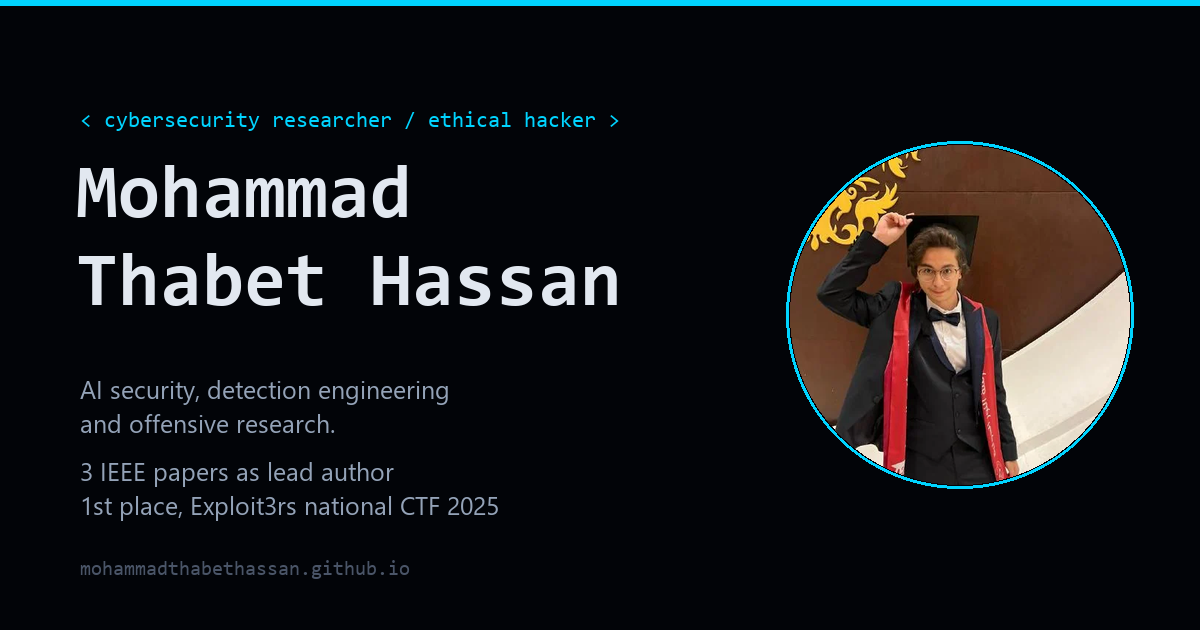
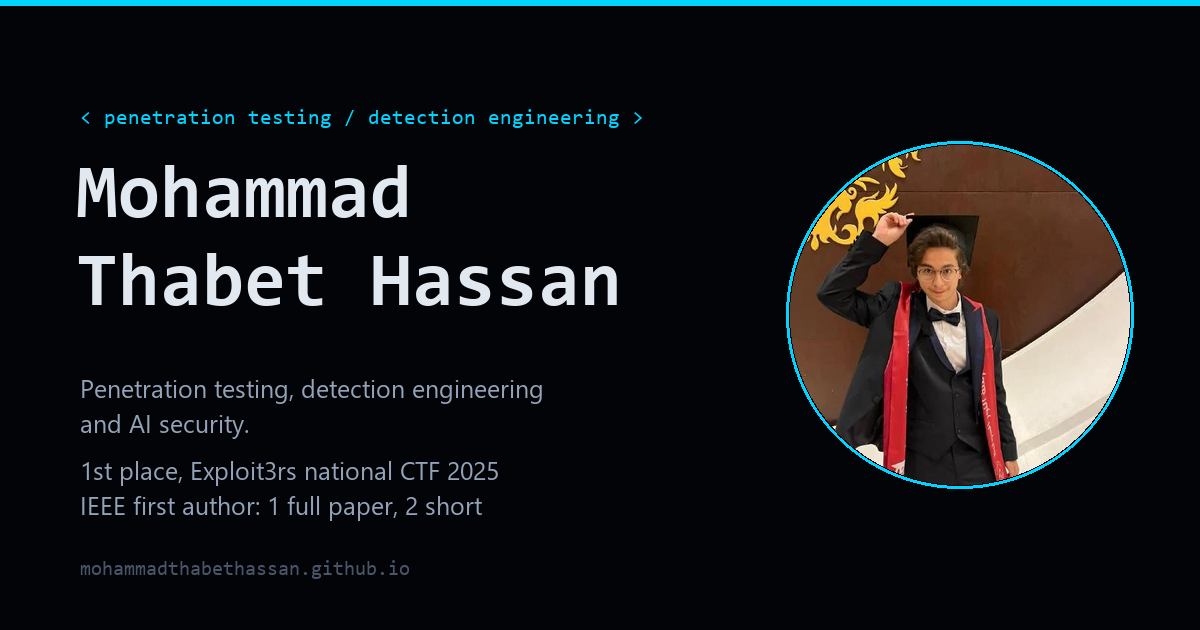
Bring the site in line with current work and correct stale claims
- Hero, About and contact now state the current focus: penetration
  testing and detection engineering.
- Projects: TokenAbuse-Azure and MIRAGE lead; adds web-posture-check and
  the HackerVerse DFIR write-up.
- Achievements: adds the SEC504 class CTF and HackerVerse results;
  Demo Day entry corrected to 2025.
- Experience entry matches the role as held (title, dates, scope).
- XAI-IDS: per-dataset F1, no venue, and no confidence-score separation
  claim until the work is validated.
- CGPA, university name, link-preview image and manifest updated.

diff --git a/index.html b/index.html
@@ -3,7 +3,7 @@
 <head>
 <meta charset="UTF-8">
 <meta name="viewport" content="width=device-width, initial-scale=1.0">
-<meta name="description" content="Mohammad Thabet Hassan is a cybersecurity researcher and ethical hacker in Dubai: AI security, detection engineering and offensive research. Three IEEE papers as lead author, first place at the Exploit3rs national CTF, open-source security tools.">
+<meta name="description" content="Mohammad Thabet Hassan is a Cyber Security graduate in Dubai working on penetration testing and detection engineering. First place at the Exploit3rs national CTF, first-author IEEE papers, open-source security tools.">
 <meta name="author" content="Mohammad Thabet Hassan">
 <meta name="keywords" content="cybersecurity, ethical hacking, penetration testing, AI security, intrusion detection, deepfake detection, SOC, portfolio, Dubai, CTF">
 <link rel="canonical" href="https://mohammadthabethassan.github.io/">
@@ -11,10 +11,10 @@
 <meta name="color-scheme" content="dark">
 <meta name="twitter:card" content="summary_large_image">
 <meta name="twitter:title" content="Mohammad Thabet Hassan | Cybersecurity Portfolio">
-<meta name="twitter:description" content="Cybersecurity researcher and ethical hacker in Dubai. AI security, detection engineering and offensive research.">
+<meta name="twitter:description" content="Cyber Security graduate in Dubai. Penetration testing, detection engineering and AI security.">
 <meta name="twitter:image" content="https://mohammadthabethassan.github.io/img/og.png">
 <meta property="og:title" content="Mohammad Thabet Hassan | Cybersecurity Portfolio">
-<meta property="og:description" content="Cybersecurity researcher and ethical hacker in Dubai. AI security, detection engineering and offensive research. Three IEEE papers, first place at the Exploit3rs national CTF, open-source security tools.">
+<meta property="og:description" content="Cyber Security graduate in Dubai. Penetration testing, detection engineering and AI security. First place at the Exploit3rs national CTF, first-author IEEE papers, open-source security tools.">
 <meta property="og:image" content="https://mohammadthabethassan.github.io/img/og.png">
 <meta property="og:image:width" content="1200">
 <meta property="og:image:height" content="630">
@@ -29,10 +29,10 @@
   "name": "Mohammad Thabet Hassan",
   "url": "https://mohammadthabethassan.github.io/",
   "image": "https://mohammadthabethassan.github.io/img/portrait.webp",
-  "jobTitle": "Cybersecurity Researcher",
+  "jobTitle": "Cyber Security Graduate",
   "alumniOf": {
     "@type": "CollegeOrUniversity",
-    "name": "Canadian University of Dubai"
+    "name": "Canadian University Dubai"
   },
   "email": "mailto:Mohammad_Thabet@hotmail.com",
   "telephone": "+971585880343",
@@ -64,7 +64,7 @@
 <script defer src="https://cdnjs.cloudflare.com/ajax/libs/gsap/3.12.2/gsap.min.js"></script>
 <script defer src="https://cdnjs.cloudflare.com/ajax/libs/gsap/3.12.2/ScrollTrigger.min.js"></script>
 
-<link rel="stylesheet" href="css/style.css?v=6">
+<link rel="stylesheet" href="css/style.css?v=7">
 </head>
 <body>
 <!-- Progress -->
@@ -109,19 +109,19 @@
 <!-- ─── HERO ──────────────────────────── -->
 <section class="hero" id="hero">
   <div class="hero-content">
-    <div class="hero-label">&lt; security researcher / ethical hacker &gt;</div>
+    <div class="hero-label">&lt; pentest / detection engineering &gt;</div>
     <h1 class="hero-title">
       <span class="glitch" data-text="Mohammad">Mohammad</span>
       <span class="glitch" data-text="Thabet">Thabet</span>
     </h1>
     <div class="hero-typewriter" id="typewriter"><span id="tw-text"></span><span class="cursor-blink"></span></div>
-    <p class="hero-subtitle">B.Sc. Cyber Security, Canadian University of Dubai, Class of 2026</p>
+    <p class="hero-subtitle">B.Sc. Cyber Security, Canadian University Dubai, Class of 2026</p>
     <ul class="hero-proof">
-      <li>3 IEEE papers · lead author</li>
       <li>1st place · Exploit3rs national CTF 2025</li>
-      <li>TrustWeave · published on PyPI</li>
+      <li>IEEE first author</li>
+      <li>HackerVerse DFIR CTF · 2,000 of 2,000</li>
     </ul>
-    <div class="avail-badge"><span class="avail-dot"></span>Open to Work · SOC, Red Team, AI Security</div>
+    <div class="avail-badge"><span class="avail-dot"></span>Open to Work · Penetration Testing, Detection Engineering</div>
     <div class="hero-buttons">
       <a href="#projects" class="btn btn-primary">
         View Projects
@@ -152,7 +152,7 @@
     <div class="stat-label">IEEE Papers</div>
   </div>
   <div class="stat-item">
-    <div class="stat-number" data-target="10" data-suffix="">10</div>
+    <div class="stat-number" data-target="12" data-suffix="">12</div>
     <div class="stat-label">Projects Shipped</div>
   </div>
   <div class="stat-item">
@@ -160,7 +160,7 @@
     <div class="stat-label">Credentials</div>
   </div>
   <div class="stat-item">
-    <div class="stat-number" data-target="5" data-suffix="">5</div>
+    <div class="stat-number" data-target="7" data-suffix="">7</div>
     <div class="stat-label">Awards Won</div>
   </div>
 </div>
@@ -174,9 +174,9 @@
   </div>
   <div class="about-grid">
     <div class="about-text reveal">
-      <p>I graduated in May 2026 with a B.Sc. in Cyber Security from the <strong>Canadian University of Dubai</strong> (CGPA 3.46 / 4.0). Over the last two years I studied how machine-learning systems hold up against attackers and published what I found: <strong>three IEEE conference papers as lead author</strong>, with a journal manuscript in preparation.</p>
-      <p>Hands-on, I work across the full attack-and-defend loop. Offence: web, network and cloud-identity penetration testing with <strong>Kali Linux</strong>, <strong>Burp Suite</strong>, <strong>Metasploit</strong> and <strong>Wireshark</strong>, including OAuth device-code abuse in Entra ID. Defence: detection engineering, SIEM and log analysis, and digital forensics. In between sits the part I care most about: testing ML models the way an adversary would, and making their decisions explainable to the analyst who has to trust them.</p>
-      <p>The intrusion-detection and voice-deepfake studies ship as reproducible, CI-tested open-source software with model cards and citation metadata. I also compete: <strong>1st place at the Exploit3rs national CTF</strong> (2025) and 1st place at the Dubai AI System Competition (2024), honoured at GITEX. Open to SOC and blue-team, red-team, and AI-security roles, and to research assistant positions, in Dubai or remote.</p>
+      <p>I graduated in 2026 with a B.Sc. in Cyber Security from <strong>Canadian University Dubai</strong> (CGPA 3.48 / 4.0), and I work both sides: <strong>I run the attack, then write the detection that catches it</strong>. In an authorized CTF challenge I ran a full Microsoft Entra ID device-code phishing chain, mapped it to 6 MITRE ATT&amp;CK techniques, then wrote the defensive side: 4 KQL threat-hunting queries and a Conditional Access policy that shuts the flow down.</p>
+      <p>On the offensive side, SmartInject is a reinforcement-learning SQL-injection tester that found 80% of vulnerabilities at DVWA High where static fuzzing found none (first-author IEEE paper, ICAMAC 2025), and in 2025 I took <strong>1st place at the Exploit3rs national CTF</strong> on a team of two. On the defensive side, Abdulrahman Rezki and I built MIRAGE, a SOC detection lab where every rule must name a benign and a boundary scenario it stays quiet on; I wrote most of its detection engine. In September 2026 I scored 2,000 of 2,000 in EC-Council's HackerVerse DFIR CTF.</p>
+      <p>In AI security, our graduation project VoiceGuard detects voice deepfakes at 2.84% EER on ASVspoof 2021 (I built its detection architecture, FastAPI backend and CI/CD), and my open-source Facts Only flags paid or planted sources in AI answers. I finished <strong>SANS SEC504</strong> in November 2026, where our team won the class CTF, and I'm preparing for the GCIH exam. I'm looking for <strong>penetration testing or detection engineering roles in the UAE</strong>.</p>
       <div class="about-info-row">
         <div class="info-chip">
           <svg viewBox="0 0 24 24" fill="none" stroke="currentColor" stroke-width="2"><path d="M21 10c0 7-9 13-9 13s-9-6-9-13a9 9 0 0118 0z"/><circle cx="12" cy="10" r="3"/></svg>
@@ -197,27 +197,27 @@
       </div>
     </div>
     <div class="about-photo-card reveal" id="aboutCard">
-      <img src="img/portrait.webp" width="460" height="460" alt="Mohammad Thabet Hassan at his graduation, Canadian University of Dubai, May 2026" loading="lazy">
+      <img src="img/portrait.webp" width="460" height="460" alt="Mohammad Thabet Hassan at his graduation, Canadian University Dubai, 2026" loading="lazy">
       <div class="about-loc">📍 Dubai, UAE</div>
     </div>
   </div>
   <div class="exp-grid">
     <div class="t-card reveal">
-      <div class="exp-meta">JUN 2025 – AUG 2026 · DUBAI · PART-TIME</div>
-      <h3>Security Intern, Security Department</h3>
-      <div class="exp-org">Madar Alholool Project Management L.L.C (Orbit Solutions)</div>
+      <div class="exp-meta">MAY 2025 – AUG 2026 · DUBAI · PART-TIME</div>
+      <h3>IT &amp; Security</h3>
+      <div class="exp-org">Madar Alholool (Orbit Solutions) · the only IT and security person at a 30-year engineering and consulting firm</div>
       <ul class="exp-list">
-        <li>Designed and set up the internal security infrastructure: logging pipelines, monitoring components and scripted checks, then tuned the rules against real operational data to cut false positives.</li>
-        <li>Ran vulnerability assessments and security reviews of internal applications, supported incident-response procedures and integrated security checks into the development lifecycle.</li>
-        <li>Built and hardened the public web, mail and DNS stack on Alibaba Cloud and AWS EC2: SPF, DKIM and DMARC, TLS, key-only SSH, firewall rules, patching and access reviews.</li>
+        <li>Set up the firm's company-domain email on Alibaba Cloud: full DNS zone, hard-fail SPF, and DKIM signing for staff mail and the apps' transactional email.</li>
+        <li>Built and launched the firm's website, madaralholool.com, served over HTTPS only and verified in Google Search Console.</li>
+        <li>Deployed the firm's web apps on an Alibaba Cloud server behind HTTPS.</li>
       </ul>
     </div>
     <div class="t-card reveal">
-      <div class="exp-meta">2024 – 2026 · CANADIAN UNIVERSITY OF DUBAI</div>
+      <div class="exp-meta">2024 – 2026 · CANADIAN UNIVERSITY DUBAI</div>
       <h3>Undergraduate Researcher</h3>
       <div class="exp-org">Four studies with CUD faculty; the two largest are released as open-source code</div>
       <ul class="exp-list">
-        <li>Explainable intrusion detection across three public datasets and 16M+ flows, with a new confidence score for flagging predictions an analyst should double-check.</li>
+        <li>Explainable intrusion detection across three public datasets and 16M+ flows, with a confidence score that is still being validated.</li>
         <li>Lightweight voice-deepfake detection for edge devices, extended into the VoiceGuard platform.</li>
         <li>Monte-Carlo testbed for over-the-air update-channel compromise in vehicle fleets.</li>
         <li>Reinforcement-learning agent for automated SQL-injection testing, published at ICAMAC 2025.</li>
@@ -287,8 +287,8 @@
       <div>
         <h3>Lightweight Voice Deepfake Detection for Smart Mobility Using Multi-Feature Ensemble Learning <span class="pub-status published">Published</span></h3>
         <div class="pub-authors"><b>M. Thabet Hassan</b>, F. Sadek, A. Sami, A. Kermani Kolankeh</div>
-        <div class="pub-venue">Proc. 2026 IEEE Int. Conf. on Smart Mobility (SM), Al Alamein, Egypt, May 2026, pp. 1–2 · IEEE Xplore</div>
-        <p class="pub-result">An edge-deployable XGBoost ensemble: F1 0.95, 95.17% accuracy, under 2 MB, 36.8 ms feature extraction, with no GPU or cloud dependency. Extended into the VoiceGuard platform.</p>
+        <div class="pub-venue">Proc. 2026 IEEE Int. Conf. on Smart Mobility (SM), Al Alamein, Egypt, May 2026, pp. 1–2 (short paper) · IEEE Xplore</div>
+        <p class="pub-result">An edge-deployable XGBoost ensemble: F1 0.95, 95.17% accuracy, under 2 MB, 36.8 ms feature extraction, with no GPU or cloud dependency. The later VoiceGuard platform and its 2.84% EER are separate work that came after this paper.</p>
         <div class="pub-links"><a href="https://doi.org/10.1109/SM69703.2026.11614145" target="_blank" rel="noopener">DOI 10.1109/SM69703.2026.11614145 ↗</a><a href="https://github.com/MohammadThabetHassan/VoiceGuard" target="_blank" rel="noopener">Code ↗</a><button type="button" class="pub-copy" data-bib="2">Copy BibTeX</button></div>
       </div>
     </article>
@@ -297,18 +297,18 @@
       <div>
         <h3>OTA Update-Channel Compromise Risk in Smart Mobility: A Testbed Comparing Governance and Cryptographic Controls <span class="pub-status published">Published</span></h3>
         <div class="pub-authors"><b>M. Thabet Hassan</b>, O. Alraas, L. A. AbuSerrieh</div>
-        <div class="pub-venue">Proc. 2026 IEEE Int. Conf. on Smart Mobility (SM), Al Alamein, Egypt, May 2026, pp. 1–2 · IEEE Xplore</div>
-        <p class="pub-result">A Monte-Carlo fleet testbed (500 runs, 50,000 ECUs). Layered governance cut the median attack blast radius from 27,784 to 46 ECUs and modelled cost from $28.7M to $55K, relative to cryptographic controls alone.</p>
+        <div class="pub-venue">Proc. 2026 IEEE Int. Conf. on Smart Mobility (SM), Al Alamein, Egypt, May 2026, pp. 1–2 (short paper) · IEEE Xplore</div>
+        <p class="pub-result">A Monte-Carlo fleet testbed (500 runs, 50,000 ECUs). Layered governance cut the modelled median attack blast radius from 27,784 to 46 ECUs and modelled cost from $28.7M to $55K, relative to cryptographic controls alone.</p>
         <div class="pub-links"><a href="https://doi.org/10.1109/SM69703.2026.11614128" target="_blank" rel="noopener">DOI 10.1109/SM69703.2026.11614128 ↗</a><button type="button" class="pub-copy" data-bib="3">Copy BibTeX</button></div>
       </div>
     </article>
     <article class="pub-card reveal">
       <div class="pub-num">[4]</div>
       <div>
-        <h3>XAI-IDS: A Multi-Dataset Explainable AI Framework for Network Intrusion Detection with a Novel XAI Confidence Score <span class="pub-status prep">In preparation</span></h3>
-        <div class="pub-authors"><b>M. Thabet Hassan</b>, F. Sadek, A. Sami, M. Khurana</div>
-        <div class="pub-venue">Manuscript in preparation for the Journal of Network and Computer Applications (Elsevier)</div>
-        <p class="pub-result">An ensemble IDS across CIC-IDS-2017, UNSW-NB15 and CSE-CIC-IDS-2018 (16M+ records, 26 attack classes) with SHAP and LIME explanations. The proposed XAI Confidence Score separates correct from incorrect predictions (Cohen's d 1.0 to 1.2), validated with McNemar's test and paired t-tests.</p>
+        <h3>XAI-IDS: Explainable AI for Network Intrusion Detection <span class="pub-status prep">In preparation</span></h3>
+        <div class="pub-authors">With Ahmed Alameri, Fahad Sadek and Omar Alraas · supervised by Dr. Mehak Khurana</div>
+        <div class="pub-venue">A paper on the work is in preparation</div>
+        <p class="pub-result">An intrusion-detection framework across CIC-IDS-2017, UNSW-NB15 and CSE-CIC-IDS-2018 (16M+ records) with SHAP and LIME explanations: F1 0.996 on CIC-IDS-2017 and about 0.80 on the harder UNSW-NB15. It adds an XAI Confidence Score built from model confidence, SHAP stability and SHAP-LIME agreement; the explanation half of that score is still being validated.</p>
         <div class="pub-links"><a href="https://github.com/MohammadThabetHassan/xai-ids" target="_blank" rel="noopener">Code and model card ↗</a><a href="https://mohammadthabethassan.github.io/xai-ids/" target="_blank" rel="noopener">Live demo ↗</a></div>
       </div>
     </article>
@@ -328,9 +328,27 @@
     <div class="t-item reveal gold">
       <div class="t-dot"></div>
       <div class="t-card">
+        <div class="t-icon">🥇</div>
+        <h3>SANS SEC504 Class CTF — 1st Place</h3>
+        <p>Day 6 of SANS SEC504 in Dubai. Our team of four finished first with 312 points, 88 clear of second place; I scored 200 of them, then went back that night and finished all 98 challenges. Each of us received the SEC504 challenge coin.</p>
+        <span class="t-year">2026</span>
+      </div>
+    </div>
+    <div class="t-item reveal gold">
+      <div class="t-dot"></div>
+      <div class="t-card">
+        <div class="t-icon">🏅</div>
+        <h3>HackerVerse DFIR CTF — Grandmaster Level</h3>
+        <p>EC-Council HackerVerse digital-forensics CTF: 2,000 of 2,000 points across all 27 challenges, from steganography and packet-capture analysis to credential recovery and a ransomware key rebuild.</p>
+        <span class="t-year">2026</span>
+      </div>
+    </div>
+    <div class="t-item reveal gold">
+      <div class="t-dot"></div>
+      <div class="t-card">
         <div class="t-icon">🏆</div>
         <h3>Exploit3rs CTF — 1st Place</h3>
-        <p>National capture-the-flag by Zayed Sector &amp; CyberE71. First across the web, network and binary-exploitation tracks.</p>
+        <p>National three-stage capture-the-flag hosted at Zayed University with CyberE71. First across the web, network and binary-exploitation tracks, on a team of two.</p>
         <span class="t-year">2025</span>
       </div>
     </div>
@@ -348,7 +366,7 @@
       <div class="t-card">
         <div class="t-icon">🏅</div>
         <h3>First Coding Competition — 1st Place</h3>
-        <p>Canadian University of Dubai. First place in the university's inaugural coding competition.</p>
+        <p>Canadian University Dubai. First place in the university's inaugural coding competition.</p>
         <span class="t-year">2023</span>
       </div>
     </div>
@@ -365,9 +383,9 @@
       <div class="t-dot"></div>
       <div class="t-card">
         <div class="t-icon">🥈</div>
-        <h3>CUD Engineering Competition — 2nd Place, Software</h3>
-        <p>Canadian University of Dubai, software category.</p>
-        <span class="t-year">2024</span>
+        <h3>CUD Engineering Demo Day — 2nd Place</h3>
+        <p>Canadian University Dubai, for the senior software project.</p>
+        <span class="t-year">2025</span>
       </div>
     </div>
     <div class="t-item reveal">
@@ -421,7 +439,7 @@
             <span class="contact-status-dot"></span>
             Open to Work
           </div>
-          <p class="contact-sub">Looking for SOC and blue-team, red-team, and AI-security roles, and for research assistant positions in applied machine-learning security. Dubai or remote. Email is the fastest way to reach me.</p>
+          <p class="contact-sub">Looking for penetration testing or detection engineering roles in the UAE. Email is the fastest way to reach me.</p>
           <div class="lang-block">
             <h4>Languages</h4>
             <div class="lang-item">Arabic <span class="lang-level">Native · C2</span></div>
@@ -488,6 +506,6 @@
 
 </div><!-- /page-wrapper -->
 
-<script defer src="js/app.js?v=6"></script>
+<script defer src="js/app.js?v=7"></script>
 </body>
 </html>

diff --git a/js/app.js b/js/app.js
@@ -213,7 +213,7 @@ sectionTargets.forEach(s=>navObs.observe(s));
 /* ── Typewriter ── */
 (function initTypewriter(){
   const el = document.getElementById('tw-text');
-  const words = ['Cybersecurity Researcher','Ethical Hacker','AI Security Engineer','IEEE Author'];
+  const words = ['Penetration Testing','Detection Engineering','AI Security','IEEE First Author'];
   let wi=0, ci=0, deleting=false;
   function tick(){
     const word = words[wi];
@@ -379,10 +379,42 @@ if(aboutCard){
 /* ── Projects (curated; every card has a real screenshot from the repository) ── */
 const PROJECTS = [
   {
+    title:'TokenAbuse-Azure', cats:['Security','SOC'], lang:'PowerShell', year:'2026',
+    image:'img/projects/tokenabuse-azure.webp', alt:'TokenAbuse-Azure attack chain: device-code phishing, token theft, Graph and SharePoint enumeration, exfiltration',
+    desc:'Walkthrough of an authorised cloud red-team CTF: OAuth device-code phishing, token theft, Microsoft Graph and SharePoint enumeration, and exfiltration, without touching the perimeter. Paired with the KQL hunts and the Conditional Access policy that catch the chain.',
+    facts:['Entra ID / Microsoft 365','6 MITRE ATT&CK techniques','4 KQL hunts + Conditional Access policy'],
+    topics:['device-code-phishing','entra-id','kql','threat-hunting'],
+    code:'https://github.com/MohammadThabetHassan/TokenAbuse-Azure', codeLabel:'Write-up'
+  },
+  {
+    title:'MIRAGE SOC Lab', cats:['SOC','Security'], lang:'TypeScript', year:'2026',
+    image:'img/projects/mirage-soc-lab.webp', alt:'MIRAGE SOC Lab: controlled detection engineering and SOC training',
+    desc:'SOC detection lab on synthetic, deterministic telemetry, built with Abdulrahman Rezki. A rule will not load unless it names a benign and a boundary scenario it must stay quiet on, and a baseline regression test holds every rule to that. Analyst cases are mapped to MITRE ATT&CK. I wrote most of the detection engine.',
+    facts:['ATT&CK-mapped cases','Rule regression tests','Playwright end-to-end tests'],
+    topics:['detection-engineering','soc-lab','react','typescript'],
+    code:'https://github.com/MohammadThabetHassan/mirage-soc-lab', demo:'https://mohammadthabethassan.github.io/mirage-soc-lab/', demoLabel:'Overview'
+  },
+  {
+    title:'web-posture-check', cats:['Security','Tools'], lang:'Python', year:'2026',
+    image:'img/projects/web-posture-check.webp', alt:'Terminal: web-posture-check 0.2 passes an invalid HSTS header that version 0.4 fails and explains',
+    desc:'Command-line tool that grades a website\'s security posture from the outside: headers, cookies, CORS, TLS, CAA, security.txt, SPF, DMARC and DKIM. Its HSTS parsing was checked against a real Chrome on 35 headers, and it writes SARIF for GitHub code scanning. Built with Omar Alraas.',
+    facts:['20 checks in one command','Published on PyPI','GitHub Action + SARIF'],
+    topics:['security-headers','tls','email-security','github-action'],
+    code:'https://github.com/MohammadThabetHassan/web-posture-check', pypi:'https://pypi.org/project/web-posture-check/'
+  },
+  {
+    title:'HackerVerse DFIR Write-up', cats:['Forensics','Security'], lang:'Markdown', year:'2026',
+    image:'img/projects/hackerverse-dfir.webp', alt:'EC-Council HackerVerse DFIR CTF certificate, level Grandmaster, issued 29 September 2026',
+    desc:'Step-by-step write-up of the EC-Council HackerVerse DFIR CTF: hidden data in audio and images, an intrusion rebuilt from a packet capture, a Chrome password recovered through LSASS and DPAPI, and a .NET ransomware key rebuilt from the machine name. Every level has its commands and a defensive note.',
+    facts:['2,000 of 2,000 points','27 challenges · 4 levels','Grandmaster level'],
+    topics:['dfir','ctf-writeup','malware-analysis','incident-response'],
+    code:'https://github.com/MohammadThabetHassan/HackerVerse-DFIR-2026', codeLabel:'Write-up'
+  },
+  {
     title:'VoiceGuard', cats:['Security','AI/ML'], lang:'Python', year:'2026',
     image:'img/projects/voiceguard.webp', alt:'VoiceGuard overview: real-time voice deepfake detection, 2.84% EER, 0.62 MB edge model',
     desc:'Real-time voice-deepfake detection, synthesis watermarking and vishing defence. XLS-R + AASIST server model, a separate 0.62 MB ONNX edge model, Integrated-Gradients explanations, C2PA-signed provenance and NIST SP 800-86-style forensic reports. Team project at CUD; the platform that grew out of paper [2].',
-    facts:['2.84% EER · ASVspoof 2021 LA','0.62 MB edge model','FastAPI + React'],
+    facts:['2.84% EER · ASVspoof 2021 LA','Separate 0.62 MB edge model · 8.47% EER','FastAPI + React'],
     topics:['deepfake-detection','aasist','onnx','fastapi'],
     code:'https://github.com/MohammadThabetHassan/VoiceGuard', paper:'https://doi.org/10.1109/SM69703.2026.11614145'
   },
@@ -397,18 +429,10 @@ const PROJECTS = [
   {
     title:'XAI-IDS', cats:['Security','AI/ML','SOC'], lang:'Python', year:'2026',
     image:'img/projects/xai-ids.webp', alt:'XAI-IDS dashboard showing a DDoS prediction with per-feature explanations and the confidence score',
-    desc:'Explainable intrusion detection across CIC-IDS-2017, UNSW-NB15 and CSE-CIC-IDS-2018 with SHAP and LIME, plus an XAI Confidence Score that tells the analyst which alerts deserve a second look. Live in-browser XGBoost demo, model card, benchmark tables and CI. Basis of manuscript [4].',
-    facts:['16M+ flows · 26 attack classes','F1 up to 0.9964','Cohen’s d 1.0–1.2'],
+    desc:'Explainable intrusion detection across CIC-IDS-2017, UNSW-NB15 and CSE-CIC-IDS-2018 with SHAP and LIME, plus an XAI Confidence Score built from model confidence, SHAP stability and SHAP-LIME agreement; the explanation half of that score is still being validated. Live in-browser XGBoost demo, model card, benchmark tables and CI. Team project; a paper is in preparation.',
+    facts:['16M+ flows · 3 datasets','F1 0.996 · CIC-IDS-2017','F1 ~0.80 · UNSW-NB15'],
     topics:['intrusion-detection','explainable-ai','shap','xgboost'],
     code:'https://github.com/MohammadThabetHassan/xai-ids', demo:'https://mohammadthabethassan.github.io/xai-ids/'
-  },
-  {
-    title:'MIRAGE SOC Lab', cats:['SOC','Security'], lang:'TypeScript', year:'2026',
-    image:'img/projects/mirage-soc-lab.webp', alt:'MIRAGE SOC Lab: controlled detection engineering and SOC training',
-    desc:'Controlled SOC lab for deterministic detection engineering: replayable telemetry, explainable analyst cases mapped to MITRE ATT&CK, and regression tests for the rule catalogue, so a detection change can be proven rather than assumed.',
-    facts:['ATT&CK-mapped cases','Rule regression tests','Playwright end-to-end tests'],
-    topics:['detection-engineering','soc-lab','react','typescript'],
-    code:'https://github.com/MohammadThabetHassan/mirage-soc-lab', demo:'https://mohammadthabethassan.github.io/mirage-soc-lab/', demoLabel:'Overview'
   },
   {
     title:'DiskTrace', cats:['Forensics','Security'], lang:'Rust', year:'2026',
@@ -417,14 +441,6 @@ const PROJECTS = [
     facts:['Local-first · no telemetry','Machine-readable receipts','CodeQL + release CI'],
     topics:['dfir','data-carving','chain-of-custody','egui'],
     code:'https://github.com/MohammadThabetHassan/disktrace'
-  },
-  {
-    title:'TokenAbuse-Azure', cats:['Security','SOC'], lang:'PowerShell', year:'2026',
-    image:'img/projects/tokenabuse-azure.webp', alt:'TokenAbuse-Azure attack chain: device-code phishing, token theft, Graph and SharePoint enumeration, exfiltration',
-    desc:'Walkthrough of an authorised cloud red-team CTF: OAuth device-code phishing, token theft, Microsoft Graph and SharePoint enumeration, and exfiltration, without touching the perimeter. Paired with the KQL hunts and the Conditional Access policy that catch the chain.',
-    facts:['Entra ID / Microsoft 365','Mapped to MITRE ATT&CK','Detections included'],
-    topics:['device-code-phishing','entra-id','kql','microsoft-sentinel'],
-    code:'https://github.com/MohammadThabetHassan/TokenAbuse-Azure', codeLabel:'Write-up'
   },
   {
     title:'Facts Only', cats:['AI/ML','Security'], lang:'JavaScript', year:'2026',
